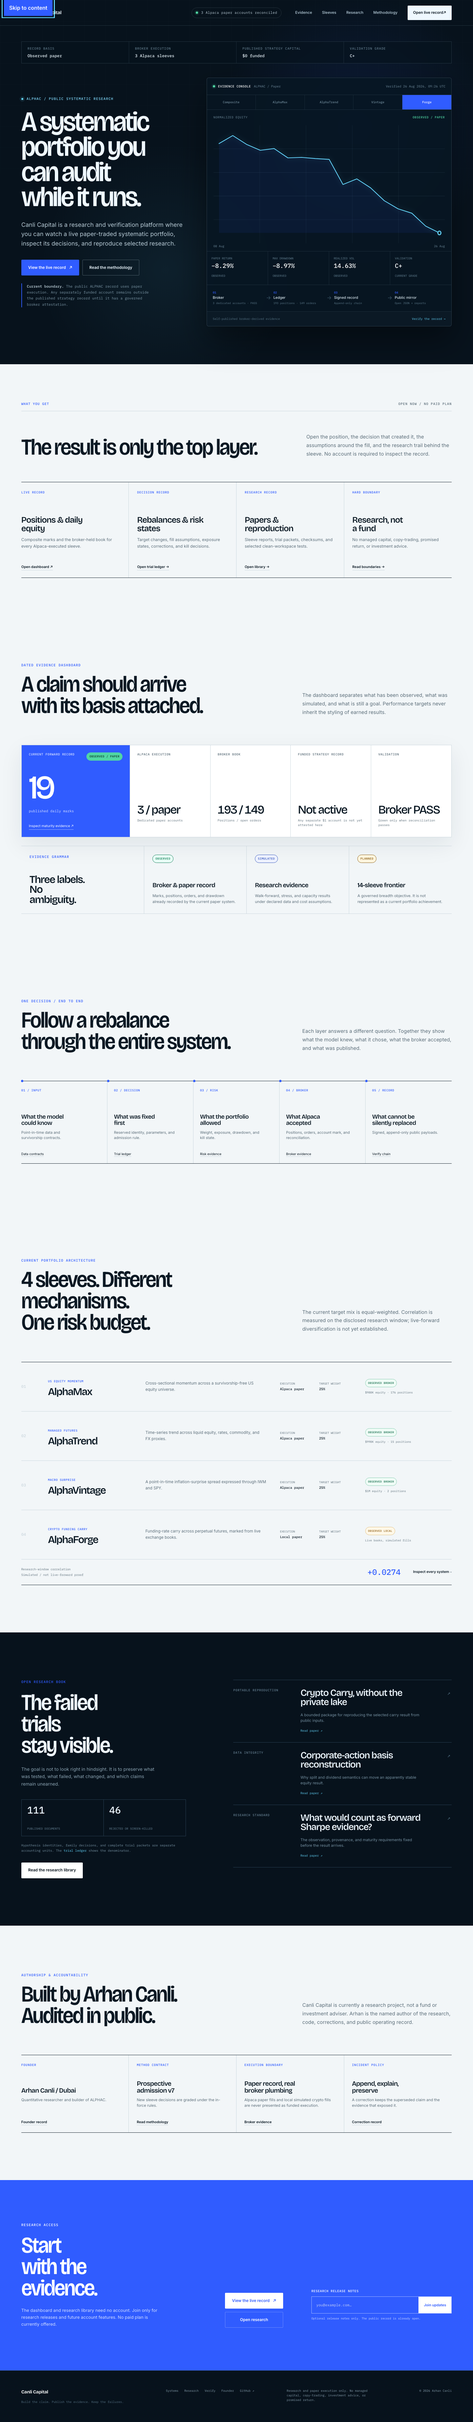
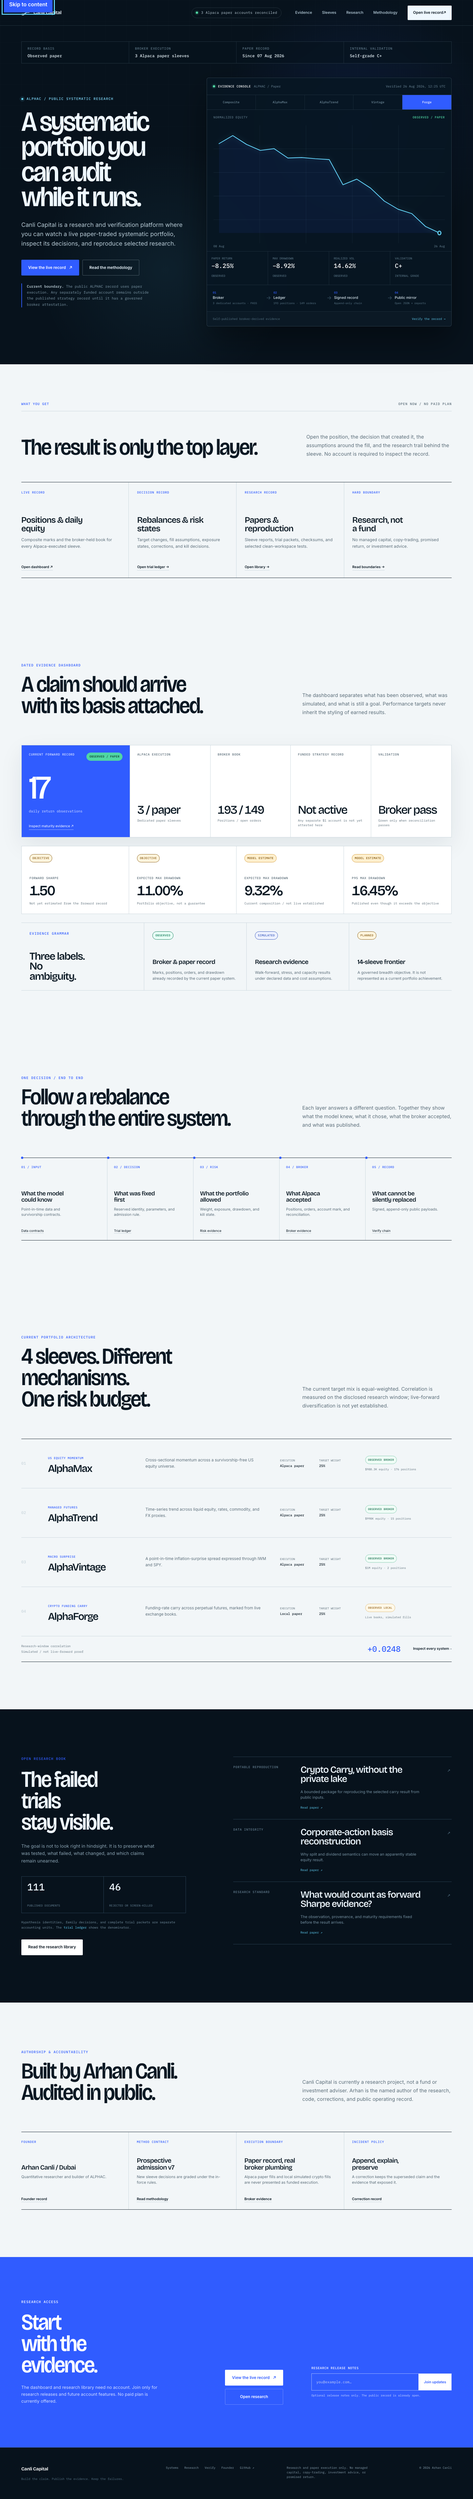
product: bind homepage evidence to public claims

diff --git a/index.html b/index.html
@@ -55,10 +55,10 @@
     <section class="hero" aria-labelledby="hero-title">
       <div class="hero-grid" aria-hidden="true"></div>
       <div class="hero-status" aria-label="Current program status">
-        <div><span>Record basis</span><strong>Observed paper</strong></div>
-        <div><span>Broker execution</span><strong>3 Alpaca sleeves</strong></div>
-        <div><span>Published strategy capital</span><strong>$0 funded</strong></div>
-        <div><span>Validation grade</span><strong id="hero-grade">Loading…</strong></div>
+        <div><span>Record basis</span><strong id="hero-record-basis">Loading…</strong></div>
+        <div><span>Broker execution</span><strong id="hero-broker-execution">Loading…</strong></div>
+        <div><span>Paper record</span><strong id="hero-paper-since">Loading…</strong></div>
+        <div><span>Internal validation</span><strong id="hero-grade">Loading…</strong></div>
       </div>
       <div class="hero__copy">
         <p class="eyebrow"><span class="signal-pulse" aria-hidden="true"></span> ALPHAC / Public systematic research</p>
@@ -83,10 +83,10 @@
             <g class="chart-grid" aria-hidden="true"><path d="M0 64H760M0 128H760M0 192H760M0 256H760" /><path d="M152 0V320M304 0V320M456 0V320M608 0V320" /></g>
             <path class="chart-area" id="equity-area" d="" /><path class="chart-line" id="equity-path" d="" /><circle class="chart-node" id="equity-node" cx="0" cy="0" r="5" />
           </svg>
-          <span class="chart-label chart-label--start" id="chart-start">—</span><span class="chart-label chart-label--end" id="chart-end">—</span>
+          <span class="chart-label chart-label--start" id="chart-start">Pending</span><span class="chart-label chart-label--end" id="chart-end">Pending</span>
         </div>
         <dl class="console-metrics">
-          <div><dt>Paper return</dt><dd id="metric-live-return">—</dd><small>Observed</small></div><div><dt>Max drawdown</dt><dd id="metric-live-drawdown">—</dd><small>Observed</small></div><div><dt>Realized vol</dt><dd id="metric-live-vol">—</dd><small>Observed</small></div><div><dt>Validation</dt><dd id="metric-grade">—</dd><small>Current grade</small></div>
+          <div><dt>Paper return</dt><dd id="metric-live-return">Pending</dd><small>Observed</small></div><div><dt>Max drawdown</dt><dd id="metric-live-drawdown">Pending</dd><small>Observed</small></div><div><dt>Realized vol</dt><dd id="metric-live-vol">Pending</dd><small>Observed</small></div><div><dt>Validation</dt><dd id="metric-grade">Pending</dd><small>Internal grade</small></div>
         </dl>
         <div class="evidence-chain" aria-label="Evidence publication chain">
           <div><span>01</span><strong>Broker</strong><small id="console-broker">Checking Alpaca…</small></div><i aria-hidden="true">→</i><div><span>02</span><strong>Ledger</strong><small id="console-book">Loading exposure…</small></div><i aria-hidden="true">→</i><div><span>03</span><strong>Signed record</strong><small>Append-only chain</small></div><i aria-hidden="true">→</i><div><span>04</span><strong>Public mirror</strong><small>Open JSON + reports</small></div>
@@ -109,17 +109,23 @@
     <section class="evidence section" id="evidence" aria-labelledby="evidence-title">
       <div class="section-heading section-heading--split"><div><p class="eyebrow">Dated evidence dashboard</p><h2 id="evidence-title">A claim should arrive with its basis attached.</h2></div><p>The dashboard separates what has been observed, what was simulated, and what is still a goal. Performance targets never inherit the styling of earned results.</p></div>
       <div class="evidence-ledger">
-        <article class="evidence-ledger__primary"><div class="evidence-ledger__label"><span>Current forward record</span><em class="basis basis--observed">Observed / paper</em></div><strong id="evidence-days">—</strong><p>published daily marks</p><a href="/measurements/forward-evidence-maturity">Inspect maturity evidence <span aria-hidden="true">↗</span></a></article>
-        <article><span>Alpaca execution</span><strong id="evidence-accounts">—</strong><small>Dedicated paper accounts</small></article>
-        <article><span>Broker book</span><strong id="evidence-positions">—</strong><small>Positions / open orders</small></article>
+        <article class="evidence-ledger__primary"><div class="evidence-ledger__label"><span>Current forward record</span><em class="basis basis--observed">Observed / paper</em></div><strong id="evidence-observations">Pending</strong><p>daily return observations</p><a href="/measurements/forward-evidence-maturity">Inspect maturity evidence <span aria-hidden="true">↗</span></a></article>
+        <article><span>Alpaca execution</span><strong id="evidence-accounts">Pending</strong><small>Dedicated paper sleeves</small></article>
+        <article><span>Broker book</span><strong id="evidence-positions">Pending</strong><small>Positions / open orders</small></article>
         <article><span>Funded strategy record</span><strong>Not active</strong><small>Any separate $1 account is not yet attested here</small></article>
         <article><span>Validation</span><strong id="evidence-status">Loading…</strong><small>Green only when reconciliation passes</small></article>
+      </div>
+      <div class="evidence-frontier" aria-label="Objectives and model estimates">
+        <article><em class="basis basis--planned">Objective</em><span>Forward Sharpe</span><strong id="objective-forward-sharpe">Pending</strong><small>Not yet estimated from the forward record</small></article>
+        <article><em class="basis basis--planned">Objective</em><span>Expected max drawdown</span><strong id="objective-max-drawdown">Pending</strong><small>Portfolio objective, not a guarantee</small></article>
+        <article><em class="basis basis--estimated">Model estimate</em><span>Expected max drawdown</span><strong id="model-expected-drawdown">Pending</strong><small>Current composition / not live established</small></article>
+        <article><em class="basis basis--estimated">Model estimate</em><span>p95 max drawdown</span><strong id="model-p95-drawdown">Pending</strong><small>Published even though it exceeds the objective</small></article>
       </div>
       <div class="basis-grid" aria-labelledby="basis-title">
         <div class="basis-grid__heading"><p class="eyebrow">Evidence grammar</p><h3 id="basis-title">Three labels. No ambiguity.</h3></div>
         <article><em class="basis basis--observed">Observed</em><h3>Broker & paper record</h3><p>Marks, positions, orders, and drawdown already recorded by the current paper system.</p></article>
         <article><em class="basis basis--simulated">Simulated</em><h3>Research evidence</h3><p>Walk-forward, stress, and capacity results under declared data and cost assumptions.</p></article>
-        <article><em class="basis basis--planned">Planned</em><h3>14-sleeve frontier</h3><p>A governed breadth objective. It is not represented as a current portfolio achievement.</p></article>
+        <article><em class="basis basis--planned">Planned</em><h3><span id="target-sleeve-count">Pending</span>-sleeve frontier</h3><p>A governed breadth objective. It is not represented as a current portfolio achievement.</p></article>
       </div>
     </section>
 
@@ -131,18 +137,18 @@
     </section>
 
     <section class="sleeves section" id="sleeves" aria-labelledby="sleeves-title">
-      <div class="section-heading section-heading--split"><div><p class="eyebrow">Current portfolio architecture</p><h2 id="sleeves-title">4 sleeves. Different mechanisms. One risk budget.</h2></div><p>The current target mix is equal-weighted. Correlation is measured on the disclosed research window; live-forward diversification is not yet established.</p></div>
+      <div class="section-heading section-heading--split"><div><p class="eyebrow">Current portfolio architecture</p><h2 id="sleeves-title"><span id="current-sleeve-count">Pending</span> sleeves. Different mechanisms. One risk budget.</h2></div><p>The current target mix is equal-weighted. Correlation is measured on the disclosed research window; live-forward diversification is not yet established.</p></div>
       <div class="sleeve-table">
         <article class="sleeve-row" data-sleeve="alphamax"><div class="sleeve-index">01</div><div class="sleeve-name"><span>US equity momentum</span><h3>AlphaMax</h3></div><p>Cross-sectional momentum across a survivorship-free US equity universe.</p><dl><div><dt>Execution</dt><dd>Alpaca paper</dd></div><div><dt>Target weight</dt><dd>25%</dd></div></dl><div class="sleeve-state"><span class="state-pill state-pill--broker">Observed broker</span><small id="sleeve-alphamax-state">Loading account…</small></div></article>
         <article class="sleeve-row" data-sleeve="managed_futures"><div class="sleeve-index">02</div><div class="sleeve-name"><span>Managed futures</span><h3>AlphaTrend</h3></div><p>Time-series trend across liquid equity, rates, commodity, and FX proxies.</p><dl><div><dt>Execution</dt><dd>Alpaca paper</dd></div><div><dt>Target weight</dt><dd>25%</dd></div></dl><div class="sleeve-state"><span class="state-pill state-pill--broker">Observed broker</span><small id="sleeve-managed_futures-state">Loading account…</small></div></article>
         <article class="sleeve-row" data-sleeve="alphavintage"><div class="sleeve-index">03</div><div class="sleeve-name"><span>Macro surprise</span><h3>AlphaVintage</h3></div><p>A point-in-time inflation-surprise spread expressed through IWM and SPY.</p><dl><div><dt>Execution</dt><dd>Alpaca paper</dd></div><div><dt>Target weight</dt><dd>25%</dd></div></dl><div class="sleeve-state"><span class="state-pill state-pill--broker">Observed broker</span><small id="sleeve-alphavintage-state">Loading account…</small></div></article>
         <article class="sleeve-row" data-sleeve="alphaforge"><div class="sleeve-index">04</div><div class="sleeve-name"><span>Crypto funding carry</span><h3>AlphaForge</h3></div><p>Funding-rate carry across perpetual futures, marked from live exchange books.</p><dl><div><dt>Execution</dt><dd>Local paper</dd></div><div><dt>Target weight</dt><dd>25%</dd></div></dl><div class="sleeve-state"><span class="state-pill state-pill--local">Observed local</span><small>Live books, simulated fills</small></div></article>
       </div>
-      <div class="sleeves-footer"><div><span>Research-window correlation</span><small>Simulated / not live-forward proof</small></div><strong id="correlation-reading">+0.0274</strong><a href="/systems">Inspect every system <span aria-hidden="true">→</span></a></div>
+      <div class="sleeves-footer"><div><span>Research-window correlation</span><small>Simulated / not live-forward proof</small></div><strong id="correlation-reading">Pending</strong><a href="/systems">Inspect every system <span aria-hidden="true">→</span></a></div>
     </section>
 
     <section class="research" id="research" aria-labelledby="research-title">
-      <div class="research__intro"><p class="eyebrow">Open research book</p><h2 id="research-title">The failed trials stay visible.</h2><p>The goal is not to look right in hindsight. It is to preserve what was tested, what failed, what changed, and which claims remain unearned.</p><div class="research-counts"><div><strong id="research-documents">—</strong><span>published documents</span></div><div><strong id="research-killed">—</strong><span>rejected or screen-killed</span></div></div><p class="research-accounting-note">Hypothesis identities, family decisions, and complete trial packets are separate accounting units. The <a href="/trials">trial ledger</a> shows the denominator.</p><a class="button button--light" href="/research">Read the research library</a></div>
+      <div class="research__intro"><p class="eyebrow">Open research book</p><h2 id="research-title">The failed trials stay visible.</h2><p>The goal is not to look right in hindsight. It is to preserve what was tested, what failed, what changed, and which claims remain unearned.</p><div class="research-counts"><div><strong id="research-documents">Pending</strong><span>published documents</span></div><div><strong id="research-killed">Pending</strong><span>rejected or screen-killed</span></div></div><p class="research-accounting-note">Hypothesis identities, family decisions, and complete trial packets are separate accounting units. The <a href="/trials">trial ledger</a> shows the denominator.</p><a class="button button--light" href="/research">Read the research library</a></div>
       <div class="paper-stack"><a class="paper-card" href="/research/crypto-carry-portable-v1"><span>Portable reproduction</span><h3>Crypto Carry, without the private lake</h3><p>A bounded package for reproducing the selected carry result from public inputs.</p><em>Read paper <span aria-hidden="true">↗</span></em></a><a class="paper-card" href="/research/corporate-action-basis-reconstruction"><span>Data integrity</span><h3>Corporate-action basis reconstruction</h3><p>Why split and dividend semantics can move an apparently stable equity result.</p><em>Read paper <span aria-hidden="true">↗</span></em></a><a class="paper-card" href="/research/forward-sharpe-evidence-standard"><span>Research standard</span><h3>What would count as forward Sharpe evidence?</h3><p>The observation, provenance, and maturity requirements fixed before the result arrives.</p><em>Read paper <span aria-hidden="true">↗</span></em></a></div>
     </section>
 

diff --git a/js/home.js b/js/home.js
@@ -22,6 +22,12 @@ const shortDate = new Intl.DateTimeFormat("en-GB", {
   month: "short",
   timeZone: "UTC",
 });
+const fullDate = new Intl.DateTimeFormat("en-GB", {
+  day: "2-digit",
+  month: "short",
+  year: "numeric",
+  timeZone: "UTC",
+});
 const dateTime = new Intl.DateTimeFormat("en-GB", {
   day: "2-digit",
   month: "short",
@@ -34,9 +40,108 @@ const dateTime = new Intl.DateTimeFormat("en-GB", {
 
 function formatPercent(value, absolute = false) {
   const number = Number(value);
-  if (!Number.isFinite(number)) return "—";
+  if (!Number.isFinite(number)) return "Not available";
   const formatted = percent.format(absolute ? Math.abs(number) : number);
   return `${formatted.replace("-", "−").replace(/^\+/, absolute ? "" : "+")}%`;
+}
+
+function formatDecimalPercent(value) {
+  const number = Number(value);
+  if (!Number.isFinite(number)) return "Not available";
+  return `${Math.abs(number * 100).toFixed(2)}%`;
+}
+
+function humanizeStatus(value) {
+  return String(value || "Not available")
+    .toLowerCase()
+    .replaceAll("_", " ")
+    .replace(/^./, (character) => character.toUpperCase());
+}
+
+function setClaimText(elementId, claim, value) {
+  const element = byId(elementId);
+  if (!element) return;
+  element.textContent = value;
+  element.dataset.claimId = claim.id;
+  element.dataset.claimMaturity = claim.maturity;
+  element.title = `${claim.label}. ${claim.description}`;
+}
+
+function hydrateClaimContract(payload) {
+  const claims = new Map((payload?.claims || []).map((claim) => [claim.id, claim]));
+  const get = (id) => {
+    const claim = claims.get(id);
+    if (!claim) throw new Error(`Missing public claim ${id}`);
+    return claim;
+  };
+
+  const capitalKind = get("forward.capital-kind");
+  const firstMark = get("forward.first-mark");
+  const observations = get("forward.return-observations");
+  const internalGrade = get("validation.internal-grade");
+  const brokerSleeves = get("broker.reconciled-alpaca-sleeves");
+  const brokerPasses = get("broker.reconciliation-passes");
+  const brokerPositions = get("broker.open-positions");
+  const brokerOrders = get("broker.open-orders");
+  const forwardSharpe = get("objective.forward-sharpe");
+  const drawdownObjective = get("objective.expected-max-drawdown");
+  const expectedDrawdown = get("model.expected-max-drawdown");
+  const p95Drawdown = get("model.p95-max-drawdown");
+  const currentSleeves = get("sleeves.current");
+  const targetSleeves = get("sleeves.target");
+  const correlation = get("diversification.average-pairwise-correlation");
+
+  setClaimText(
+    "hero-record-basis",
+    capitalKind,
+    capitalKind.value === "PAPER_ONLY" ? "Observed paper" : humanizeStatus(capitalKind.value),
+  );
+  setClaimText(
+    "hero-broker-execution",
+    brokerSleeves,
+    `${integer.format(Number(brokerSleeves.value))} Alpaca paper sleeves`,
+  );
+  const paperStart = new Date(`${firstMark.value}T00:00:00Z`);
+  setClaimText(
+    "hero-paper-since",
+    firstMark,
+    Number.isNaN(paperStart.valueOf()) ? "Date unavailable" : `Since ${fullDate.format(paperStart)}`,
+  );
+  setClaimText("hero-grade", internalGrade, `Self-grade ${internalGrade.value}`);
+  setClaimText("metric-grade", internalGrade, internalGrade.value);
+  setClaimText("evidence-observations", observations, integer.format(Number(observations.value)));
+  setClaimText(
+    "evidence-accounts",
+    brokerSleeves,
+    `${integer.format(Number(brokerSleeves.value))} / paper`,
+  );
+  setClaimText(
+    "evidence-positions",
+    brokerPositions,
+    `${integer.format(Number(brokerPositions.value))} / ${integer.format(Number(brokerOrders.value))}`,
+  );
+  setClaimText(
+    "evidence-status",
+    brokerPasses,
+    brokerPasses.value === true ? "Broker pass" : "Broker check open",
+  );
+  setClaimText("objective-forward-sharpe", forwardSharpe, Number(forwardSharpe.value).toFixed(2));
+  setClaimText("objective-max-drawdown", drawdownObjective, formatDecimalPercent(drawdownObjective.value));
+  setClaimText("model-expected-drawdown", expectedDrawdown, formatDecimalPercent(expectedDrawdown.value));
+  setClaimText("model-p95-drawdown", p95Drawdown, formatDecimalPercent(p95Drawdown.value));
+  setClaimText("current-sleeve-count", currentSleeves, integer.format(Number(currentSleeves.value)));
+  setClaimText("target-sleeve-count", targetSleeves, integer.format(Number(targetSleeves.value)));
+  setClaimText("correlation-reading", correlation, correlationFormat.format(Number(correlation.value)));
+
+  const header = document.querySelector(".header-status");
+  header.dataset.status = brokerPasses.value === true ? "pass" : "fail";
+  setClaimText(
+    "header-broker-status",
+    brokerPasses,
+    brokerPasses.value === true
+      ? `${integer.format(Number(brokerSleeves.value))} Alpaca paper accounts reconciled`
+      : "Broker reconciliation is fail-closed",
+  );
 }
 
 function curveStatistics(curve) {
@@ -130,19 +235,10 @@ function hydrateBroker(broker) {
   const reconciled = Number(summary.reconciled_alpaca_sleeves || 0);
   const positions = Number(summary.open_positions || 0);
   const orders = Number(summary.open_orders || 0);
-  const header = document.querySelector(".header-status");
-
-  header.dataset.status = passed ? "pass" : "fail";
-  byId("header-broker-status").textContent = passed
-    ? `${reconciled} Alpaca paper accounts reconciled`
-    : "Broker reconciliation is fail-closed";
   byId("console-broker").textContent = passed
     ? `${reconciled} dedicated accounts · PASS`
     : "Reconciliation check open";
   byId("console-book").textContent = `${integer.format(positions)} positions · ${integer.format(orders)} orders`;
-  byId("evidence-accounts").textContent = passed ? `${reconciled} / paper` : "Check open";
-  byId("evidence-positions").textContent = `${integer.format(positions)} / ${integer.format(orders)}`;
-  byId("evidence-status").textContent = passed ? "Broker PASS" : "Fail-closed";
 
   Object.entries(sleeves).forEach(([key, sleeve]) => {
     const target = byId(`sleeve-${key}-state`);
@@ -164,6 +260,7 @@ async function fetchJson(path) {
 
 async function hydrateEvidence() {
   const paths = {
+    claims: "/contracts/public-claims.json",
     state: "/paper-state.json",
     broker: "/glassbox/alpaca_broker_reconciliation.json",
     researchIndex: "/research-index.json",
@@ -177,6 +274,9 @@ async function hydrateEvidence() {
       .filter((entry) => entry.status === "fulfilled")
       .map((entry) => entry.value),
   );
+
+  if (data.claims) hydrateClaimContract(data.claims);
+  else throw new Error("Public claim contract unavailable");
 
   if (data.state) {
     const algorithms = new Map(
@@ -196,21 +296,12 @@ async function hydrateEvidence() {
     byId("console-time").textContent = Number.isNaN(generated.valueOf())
       ? "Latest mark loaded"
       : `Verified ${dateTime.format(generated)}`;
-    const grade = data.state.metrics?.gauntlet_grade || "—";
-    byId("metric-grade").textContent = grade;
-    byId("hero-grade").textContent = grade;
-    byId("evidence-days").textContent = integer.format(Number(data.state.metrics?.live_days || 0));
-    const correlation = Number(data.state.metrics?.correlation_value);
-    byId("correlation-reading").textContent = Number.isFinite(correlation)
-      ? correlationFormat.format(correlation)
-      : "—";
   }
 
   if (data.broker) hydrateBroker(data.broker);
   else {
-    document.querySelector(".header-status").dataset.status = "fail";
-    byId("header-broker-status").textContent = "Broker evidence unavailable";
-    byId("evidence-status").textContent = "Unavailable";
+    byId("console-broker").textContent = "Broker detail unavailable";
+    byId("console-book").textContent = "Open system status";
   }
 
   if (data.researchIndex) {

diff --git a/css/home.css b/css/home.css
@@ -159,6 +159,13 @@ h1 { max-width: 12.2ch; margin: 0; font-size: clamp(3.7rem, 5.9vw, 7rem); font-v
 .evidence-ledger__primary .basis--observed { color: #0b3529; background: var(--mint); border-color: var(--mint); }
 .basis--simulated { color: #3153b9; background: #edf1ff; }
 .basis--planned { color: #84590f; background: #fff5de; }
+.basis--estimated { color: #7a4d00; background: #fff0cf; border-color: #d49a34; }
+.evidence-frontier { display: grid; grid-template-columns: repeat(4, 1fr); margin-top: 26px; border: 1px solid var(--line); background: var(--surface); }
+.evidence-frontier article { min-width: 0; min-height: 205px; display: flex; flex-direction: column; align-items: flex-start; padding: 24px; border-right: 1px solid var(--line); }
+.evidence-frontier article:last-child { border-right: 0; }
+.evidence-frontier article > span { margin-top: auto; color: var(--muted); font: 500 .6rem/1.35 var(--mono); letter-spacing: .06em; text-transform: uppercase; }
+.evidence-frontier article > strong { margin: 12px 0 10px; color: var(--ink); font: 540 clamp(1.8rem, 3vw, 3.3rem)/.95 var(--display); letter-spacing: -.05em; font-variant-numeric: tabular-nums; }
+.evidence-frontier article > small { color: var(--muted); font: 400 .6rem/1.5 var(--mono); }
 .basis-grid { display: grid; grid-template-columns: 1.2fr repeat(3, 1fr); gap: 0; margin-top: 26px; border-top: 1px solid var(--line); border-bottom: 1px solid var(--line); }
 .basis-grid > * { min-height: 205px; padding: 26px 25px; border-right: 1px solid var(--line); }
 .basis-grid > *:last-child { border-right: 0; }
@@ -268,6 +275,9 @@ h1 { max-width: 12.2ch; margin: 0; font-size: clamp(3.7rem, 5.9vw, 7rem); font-v
   .evidence-ledger article:nth-child(4), .evidence-ledger article:nth-child(5) { border-bottom: 0; }
   .evidence-ledger article:nth-child(5) { grid-column: span 2; }
   .basis-grid { grid-template-columns: repeat(3, 1fr); }
+  .evidence-frontier { grid-template-columns: repeat(2, 1fr); }
+  .evidence-frontier article:nth-child(2) { border-right: 0; }
+  .evidence-frontier article:nth-child(-n+2) { border-bottom: 1px solid var(--line); }
   .basis-grid__heading { grid-column: 1 / -1; min-height: 150px; border-right: 0; border-bottom: 1px solid var(--line); }
   .basis-grid__heading .eyebrow { margin-bottom: 24px; }
   .basis-grid__heading h3 { max-width: none; }
@@ -360,6 +370,9 @@ h1 { max-width: 12.2ch; margin: 0; font-size: clamp(3.7rem, 5.9vw, 7rem); font-v
   .evidence-ledger article:last-child { grid-column: 1 / -1; min-height: 160px; border-right: 0; border-bottom: 0 !important; }
   .evidence-ledger article > strong { font-size: 1.7rem; }
   .basis-grid { grid-template-columns: 1fr; }
+  .evidence-frontier { grid-template-columns: 1fr; }
+  .evidence-frontier article { min-height: 180px; border-right: 0; border-bottom: 1px solid var(--line); }
+  .evidence-frontier article:last-child { border-bottom: 0; }
   .basis-grid > * { min-height: 180px; border-right: 0; border-bottom: 1px solid var(--line); }
   .basis-grid > *:last-child { border-bottom: 0; }
   .basis-grid article h3 { margin-top: 50px; }

diff --git a/scripts/audit-homepage.py b/scripts/audit-homepage.py
@@ -39,8 +39,30 @@ def audit_page(page: Page, *, name: str, width: int, height: int) -> dict[str, o
     assert page.locator("#research-title").is_visible()
     assert page.locator("#trust-title").is_visible()
     assert page.locator("#access-title").is_visible()
-    assert page.locator("#evidence-accounts").inner_text() == "3 / paper"
-    assert page.locator("#evidence-status").inner_text() == "Broker PASS"
+    public_claims = page.evaluate(
+        "async () => (await fetch('/contracts/public-claims.json')).json()"
+    )
+    claims_by_id = {claim["id"]: claim for claim in public_claims["claims"]}
+    reconciled_sleeves = claims_by_id["broker.reconciled-alpaca-sleeves"]["value"]
+    assert page.locator("#evidence-accounts").inner_text() == f"{reconciled_sleeves} / paper"
+    assert page.locator("#evidence-status").inner_text() == "Broker pass"
+    assert page.locator("#hero-record-basis").inner_text() == "Observed paper"
+    assert page.locator("#hero-broker-execution").inner_text() == f"{reconciled_sleeves} Alpaca paper sleeves"
+    assert page.locator("#hero-paper-since").inner_text().startswith("Since ")
+    assert page.locator("#hero-grade").inner_text().startswith("Self-grade ")
+    assert page.locator("#objective-forward-sharpe").get_attribute("data-claim-maturity") == "planned"
+    assert page.locator("#model-p95-drawdown").get_attribute("data-claim-maturity") == "model_estimated"
+    assert page.locator("#correlation-reading").get_attribute("data-claim-maturity") == "simulated"
+    assert page.locator("[data-claim-id]").count() >= 16
+    unresolved = page.locator(
+        "#hero-record-basis, #hero-broker-execution, #hero-paper-since, #hero-grade, "
+        "#evidence-observations, #evidence-accounts, #evidence-positions, #evidence-status, "
+        "#objective-forward-sharpe, #objective-max-drawdown, #model-expected-drawdown, "
+        "#model-p95-drawdown, #current-sleeve-count, #target-sleeve-count, #correlation-reading"
+    ).evaluate_all(
+        "nodes => nodes.filter(node => ['Loading…', 'Pending', 'Not available'].includes(node.textContent.trim())).map(node => node.id)"
+    )
+    assert unresolved == []
 
     console_box = page.locator(".live-console").bounding_box()
     console_above_initial_fold = bool(console_box and console_box["y"] < height)
@@ -101,6 +123,8 @@ def audit_page(page: Page, *, name: str, width: int, height: int) -> dict[str, o
         "first_tab_target_outline": focus_outline,
         "broker_labels": page.locator(".state-pill--broker").count(),
         "local_simulation_labels": page.locator(".state-pill--local").count(),
+        "hydrated_claim_elements": page.locator("[data-claim-id]").count(),
+        "unresolved_claim_elements": unresolved,
     }
 
 
